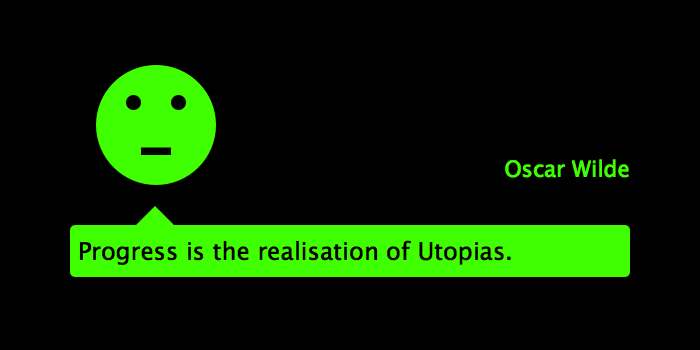
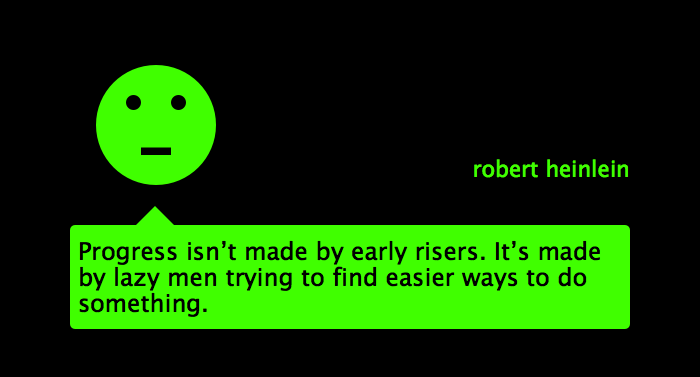
fixed thumbs for progress

diff --git a/gulpfile.js b/gulpfile.js
@@ -17,7 +17,7 @@ var webshot = require('gulp-webshot');
 
 gulp.task('webshotJPG', function() {
   // return gulp.src('./_site/**/*.html') //all
-  return gulp.src('./_site/first-they-ignore-you//*.html') //specific page
+  return gulp.src('./_site/first-they-ignore-you/*.html') //specific page
 
         .pipe(webshot({
           dest:'./assets/screenshots/',
@@ -41,7 +41,7 @@ gulp.task('webshotJPG', function() {
 // better have PNG made the quality of jpgs is not good enough!
 gulp.task('webshotPNG', function() {
   // return gulp.src('./_site/**/*.html') //all
-  return gulp.src('./_site/ask-them-favors/*.html') //specific page
+  return gulp.src('./_site/progress-utopia/*.html') //specific page
 
         .pipe(webshot({
           dest:'./assets/png-screenshots/',
